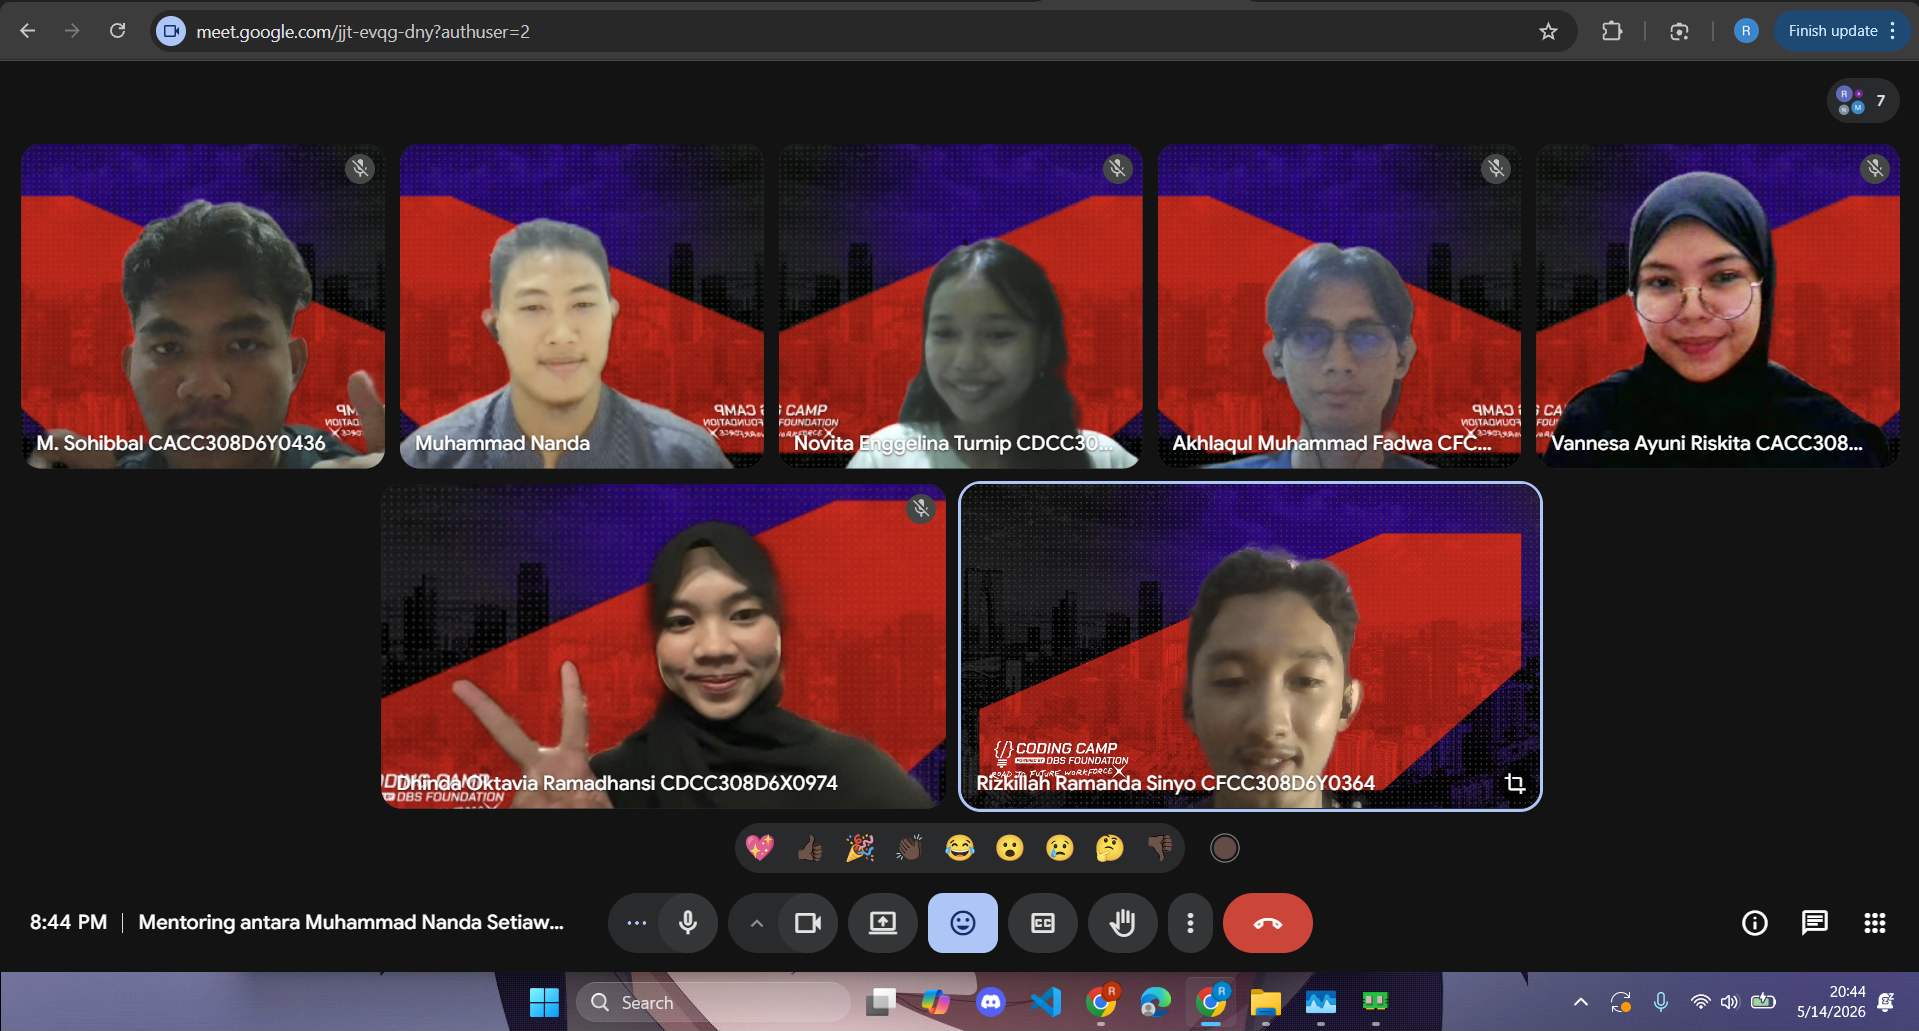
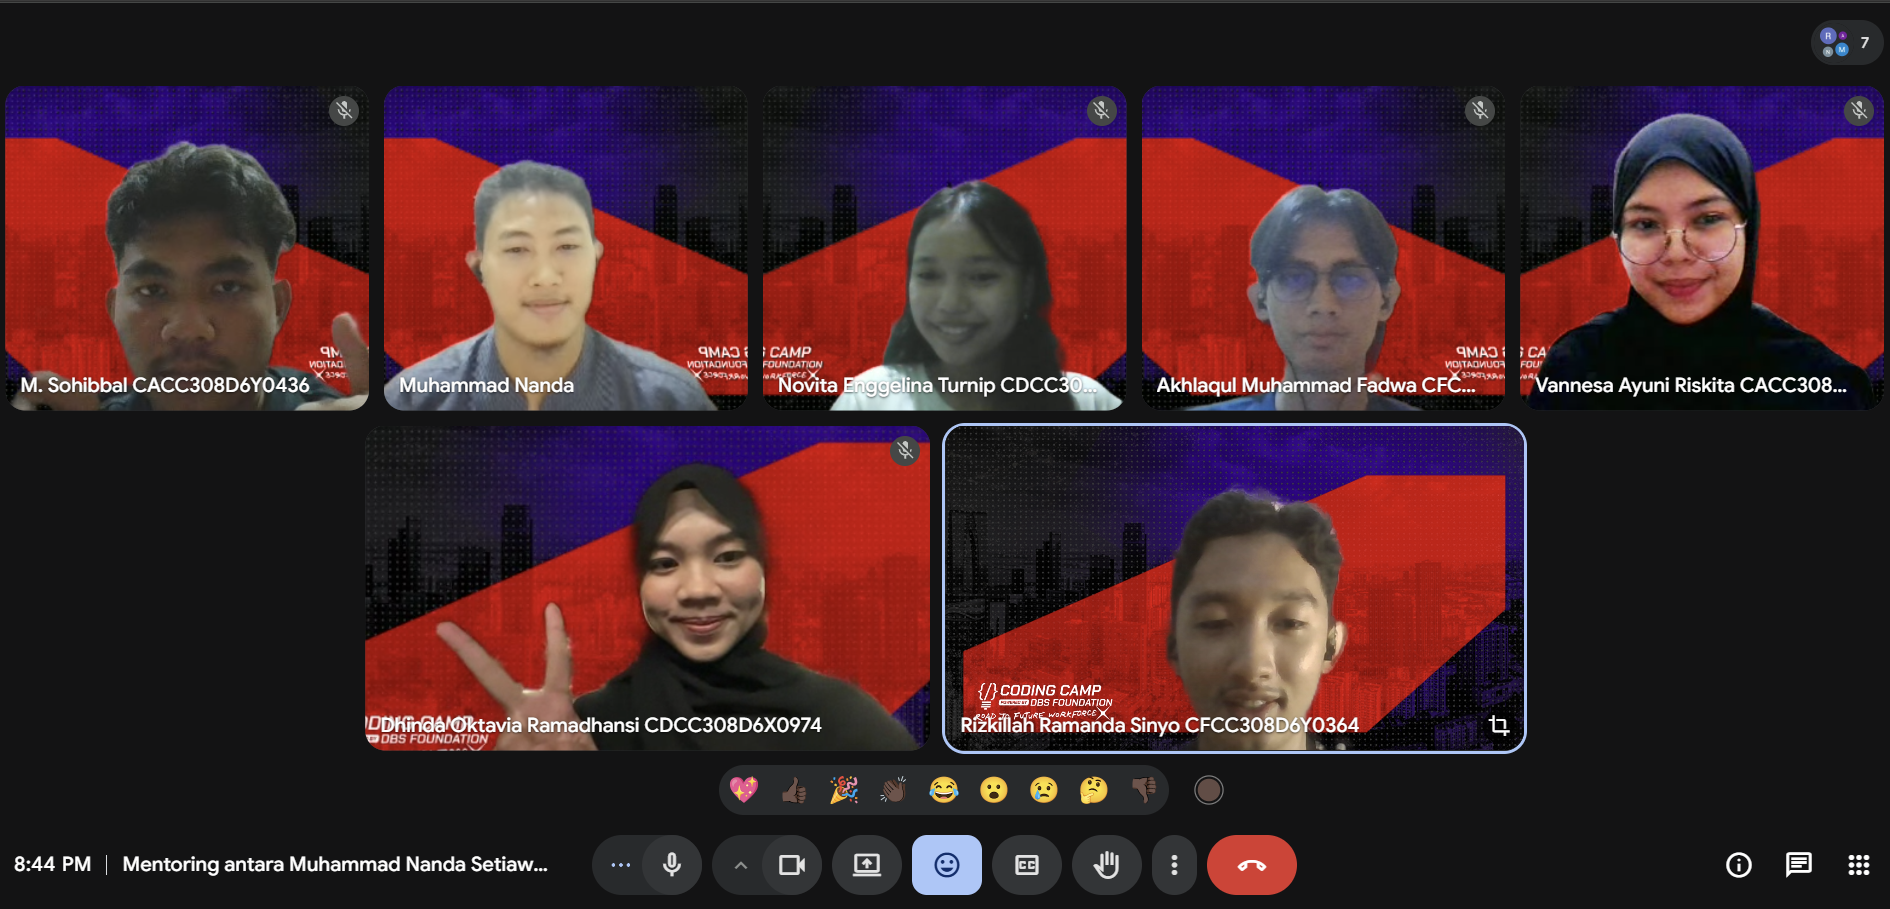
feat: delay chatbot trigger until loading finishes and relocate github and linkedin buttons to hero

diff --git a/src/components/sections/HeroSection.tsx b/src/components/sections/HeroSection.tsx
@@ -2,7 +2,9 @@
 
 import React, { useState, useEffect } from 'react';
 import { motion } from 'framer-motion';
+import { Github, Linkedin } from 'lucide-react';
 import HeroPhotoDeck from '@/components/sections/HeroPhotoDeck';
+import { contactData } from '@/data/portfolioData';
 
 interface HeroSectionProps {
   onOpenCv?: () => void;
@@ -46,16 +48,6 @@ export default function HeroSection({ onOpenCv }: HeroSectionProps) {
     return () => clearTimeout(timeout);
   }, [currentText, isDeleting, wordIndex]);
 
-  const scrollTo = (id: string) => {
-    const el = document.getElementById(id);
-    if (el) {
-      const topOffset = 80;
-      const elementPosition = el.getBoundingClientRect().top;
-      const offsetPosition = elementPosition + window.pageYOffset - topOffset;
-      window.scrollTo({ top: offsetPosition, behavior: 'smooth' });
-    }
-  };
-
   return (
     <section className="relative pt-32 pb-16 md:pt-40 md:pb-24 overflow-hidden bg-background">
       <div className="max-w-6xl mx-auto px-4 sm:px-6 lg:px-8 relative z-10">
@@ -88,8 +80,8 @@ export default function HeroSection({ onOpenCv }: HeroSectionProps) {
               Mahasiswa Teknik Informatika Universitas Riau dengan antusiasme tinggi di bidang machine learning, MLOps, dan rekayasa perangkat lunak terapan. Peraih predikat ganda Distinction Graduate (Top 10%) program industri nasional DBS Foundation dan Accenture.
             </p>
 
-            {/* Clean Action Buttons: CV button with PDF modal and Contact link */}
-            <div className="flex flex-wrap items-center gap-4 pt-2">
+            {/* Clean Action Buttons: CV button with PDF modal, plus GitHub & LinkedIn links */}
+            <div className="flex flex-wrap items-center gap-3 pt-2">
               <button
                 type="button"
                 onClick={() => {
@@ -104,13 +96,27 @@ export default function HeroSection({ onOpenCv }: HeroSectionProps) {
                 <span>Lihat CV ↗</span>
               </button>
 
-              <button
-                type="button"
-                onClick={() => scrollTo('kontak')}
-                className="px-6 py-3.5 bg-surface border border-border-subtle text-text-primary font-bold text-sm hover:border-accent-brand hover:text-accent-brand transition-colors rounded-none"
+              <a
+                href={contactData.githubLink}
+                target="_blank"
+                rel="noopener noreferrer"
+                className="px-5 py-3.5 bg-surface border border-border-subtle text-text-primary hover:border-accent-brand hover:text-accent-brand font-bold text-sm transition-colors flex items-center space-x-2 focus-visible:outline-none focus-visible:ring-2 focus-visible:ring-accent-brand rounded-none"
+                aria-label="Kunjungi profil GitHub M. Sohibbal"
               >
-                <span>Hubungi Saya →</span>
-              </button>
+                <Github className="w-4 h-4" />
+                <span>GitHub ↗</span>
+              </a>
+
+              <a
+                href={contactData.linkedinLink}
+                target="_blank"
+                rel="noopener noreferrer"
+                className="px-5 py-3.5 bg-surface border border-border-subtle text-text-primary hover:border-accent-brand hover:text-accent-brand font-bold text-sm transition-colors flex items-center space-x-2 focus-visible:outline-none focus-visible:ring-2 focus-visible:ring-accent-brand rounded-none"
+                aria-label="Kunjungi profil LinkedIn M. Sohibbal"
+              >
+                <Linkedin className="w-4 h-4" />
+                <span>LinkedIn ↗</span>
+              </a>
             </div>
           </motion.div>
 

diff --git a/src/components/ui/ChatBotDrawer.tsx b/src/components/ui/ChatBotDrawer.tsx
@@ -36,7 +36,11 @@ const quickPrompts = [
 const TYPEWRITER_INTERVAL_MS = 35;
 const TYPEWRITER_CHAR_STEP = 1;
 
-export default function ChatBotDrawer() {
+interface ChatBotDrawerProps {
+  isVisible?: boolean;
+}
+
+export default function ChatBotDrawer({ isVisible = true }: ChatBotDrawerProps) {
   const [isOpen, setIsOpen] = useState(false);
   const [inputMessage, setInputMessage] = useState('');
   const [isLoading, setIsLoading] = useState(false);
@@ -242,21 +246,31 @@ export default function ChatBotDrawer() {
   return (
     <>
       {/* Floating Trigger Button (FAB) at Bottom Right */}
-      <div className="fixed bottom-5 right-5 sm:bottom-7 sm:right-7 z-50">
-        <button
-          type="button"
-          onClick={() => setIsOpen(!isOpen)}
-          aria-label={isOpen ? 'Tutup Asisten AI' : 'Buka Asisten AI RAG Sohibbal'}
-          className="group relative flex items-center space-x-2.5 px-4 py-3 bg-surface border-2 border-accent-brand text-text-primary shadow-xl hover:bg-accent-brand hover:text-background transition-all duration-200 focus-visible:outline-none focus-visible:ring-2 focus-visible:ring-accent-brand rounded-none"
-        >
-          <div className="relative">
-            <Bot className="w-5 h-5 text-accent-brand group-hover:text-background transition-colors" />
-          </div>
-          <span className="text-xs font-bold tracking-tight uppercase">
-            Tanya AI
-          </span>
-        </button>
-      </div>
+      <AnimatePresence>
+        {isVisible && (
+          <motion.div
+            initial={{ opacity: 0, scale: 0.8, y: 16 }}
+            animate={{ opacity: 1, scale: 1, y: 0 }}
+            exit={{ opacity: 0, scale: 0.8, y: 16 }}
+            transition={{ duration: 0.35, ease: [0.16, 1, 0.3, 1] }}
+            className="fixed bottom-5 right-5 sm:bottom-7 sm:right-7 z-50"
+          >
+            <button
+              type="button"
+              onClick={() => setIsOpen(!isOpen)}
+              aria-label={isOpen ? 'Tutup Asisten AI' : 'Buka Asisten AI RAG Sohibbal'}
+              className="group relative flex items-center space-x-2.5 px-4 py-3 bg-surface border-2 border-accent-brand text-text-primary shadow-xl hover:bg-accent-brand hover:text-background transition-all duration-200 focus-visible:outline-none focus-visible:ring-2 focus-visible:ring-accent-brand rounded-none"
+            >
+              <div className="relative">
+                <Bot className="w-5 h-5 text-accent-brand group-hover:text-background transition-colors" />
+              </div>
+              <span className="text-xs font-bold tracking-tight uppercase">
+                Tanya AI
+              </span>
+            </button>
+          </motion.div>
+        )}
+      </AnimatePresence>
 
       {/* Slide-in Chat Drawer */}
       <AnimatePresence>

diff --git a/src/components/sections/ContactSection.tsx b/src/components/sections/ContactSection.tsx
@@ -1,7 +1,7 @@
 'use client';
 
 import React, { useState } from 'react';
-import { Mail, Github, Linkedin, Instagram } from 'lucide-react';
+import { Mail, Instagram } from 'lucide-react';
 import { contactData } from '@/data/portfolioData';
 
 export default function ContactSection() {
@@ -104,27 +104,6 @@ export default function ContactSection() {
               <span className="text-xs text-text-muted font-normal">@{contactData.instagram} ↗</span>
             </a>
 
-            {/* GitHub & LinkedIn Row */}
-            <div className="grid grid-cols-2 gap-2">
-              <a
-                href={contactData.githubLink}
-                target="_blank"
-                rel="noopener noreferrer"
-                className="flex items-center justify-center space-x-2 px-3 py-3 bg-surface border border-border-subtle text-text-primary hover:border-accent-brand hover:text-accent-brand font-bold text-xs transition-colors rounded-none"
-              >
-                <Github className="w-4 h-4" />
-                <span>GitHub ↗</span>
-              </a>
-              <a
-                href={contactData.linkedinLink}
-                target="_blank"
-                rel="noopener noreferrer"
-                className="flex items-center justify-center space-x-2 px-3 py-3 bg-surface border border-border-subtle text-text-primary hover:border-accent-brand hover:text-accent-brand font-bold text-xs transition-colors rounded-none"
-              >
-                <Linkedin className="w-4 h-4" />
-                <span>LinkedIn ↗</span>
-              </a>
-            </div>
           </div>
         </div>
       </div>

diff --git a/src/components/sections/LoadingScreen.tsx b/src/components/sections/LoadingScreen.tsx
@@ -12,19 +12,30 @@ export default function LoadingScreen({ onComplete }: LoadingScreenProps) {
 
   useEffect(() => {
     const hasVisited = sessionStorage.getItem('sohibbal_visited');
-    const delayTime = hasVisited ? 1200 : 2500;
+    const delayTime = hasVisited ? 2000 : 3000;
 
     const timer = setTimeout(() => {
       setIsVisible(false);
       sessionStorage.setItem('sohibbal_visited', 'true');
-      if (onComplete) onComplete();
     }, delayTime);
 
-    return () => clearTimeout(timer);
+    // Fallback timer to guarantee onComplete is called even if animations are suppressed
+    const fallbackTimer = setTimeout(() => {
+      if (onComplete) onComplete();
+    }, delayTime + 750);
+
+    return () => {
+      clearTimeout(timer);
+      clearTimeout(fallbackTimer);
+    };
   }, [onComplete]);
 
   return (
-    <AnimatePresence>
+    <AnimatePresence
+      onExitComplete={() => {
+        if (onComplete) onComplete();
+      }}
+    >
       {isVisible && (
         <motion.div
           key="loader"
@@ -99,7 +110,7 @@ export default function LoadingScreen({ onComplete }: LoadingScreenProps) {
                 M. Sohibbal
               </h2>
               <p className="text-[11px] uppercase tracking-widest text-text-muted font-semibold">
-                AI &amp; Software Portfolio
+                Portfolio
               </p>
             </motion.div>
 

diff --git a/src/app/page.tsx b/src/app/page.tsx
@@ -49,6 +49,7 @@ export default function Home() {
   });
 
   const [selectedProject, setSelectedProject] = useState<ProjectItem | null>(null);
+  const [isLoadingComplete, setIsLoadingComplete] = useState(false);
 
   const handleOpenModal = (image: {
     src: string;
@@ -89,7 +90,7 @@ export default function Home() {
   return (
     <div className="relative min-h-screen bg-background text-text-primary selection:bg-accent-soft selection:text-accent-brand">
       {/* 1. Kinetic Monogram Loading Screen */}
-      <LoadingScreen />
+      <LoadingScreen onComplete={() => setIsLoadingComplete(true)} />
 
       {/* 2. Sticky Glass Navbar & Theme Switcher */}
       <Navbar />
@@ -136,8 +137,8 @@ export default function Home() {
         project={selectedProject}
       />
 
-      {/* 8. Floating RAG Chatbot Assistant (Bottom Right) */}
-      <ChatBotDrawer />
+      {/* 8. Floating RAG Chatbot Assistant (Muncul hanya setelah LoadingScreen selesai) */}
+      <ChatBotDrawer isVisible={isLoadingComplete} />
     </div>
   );
 }
